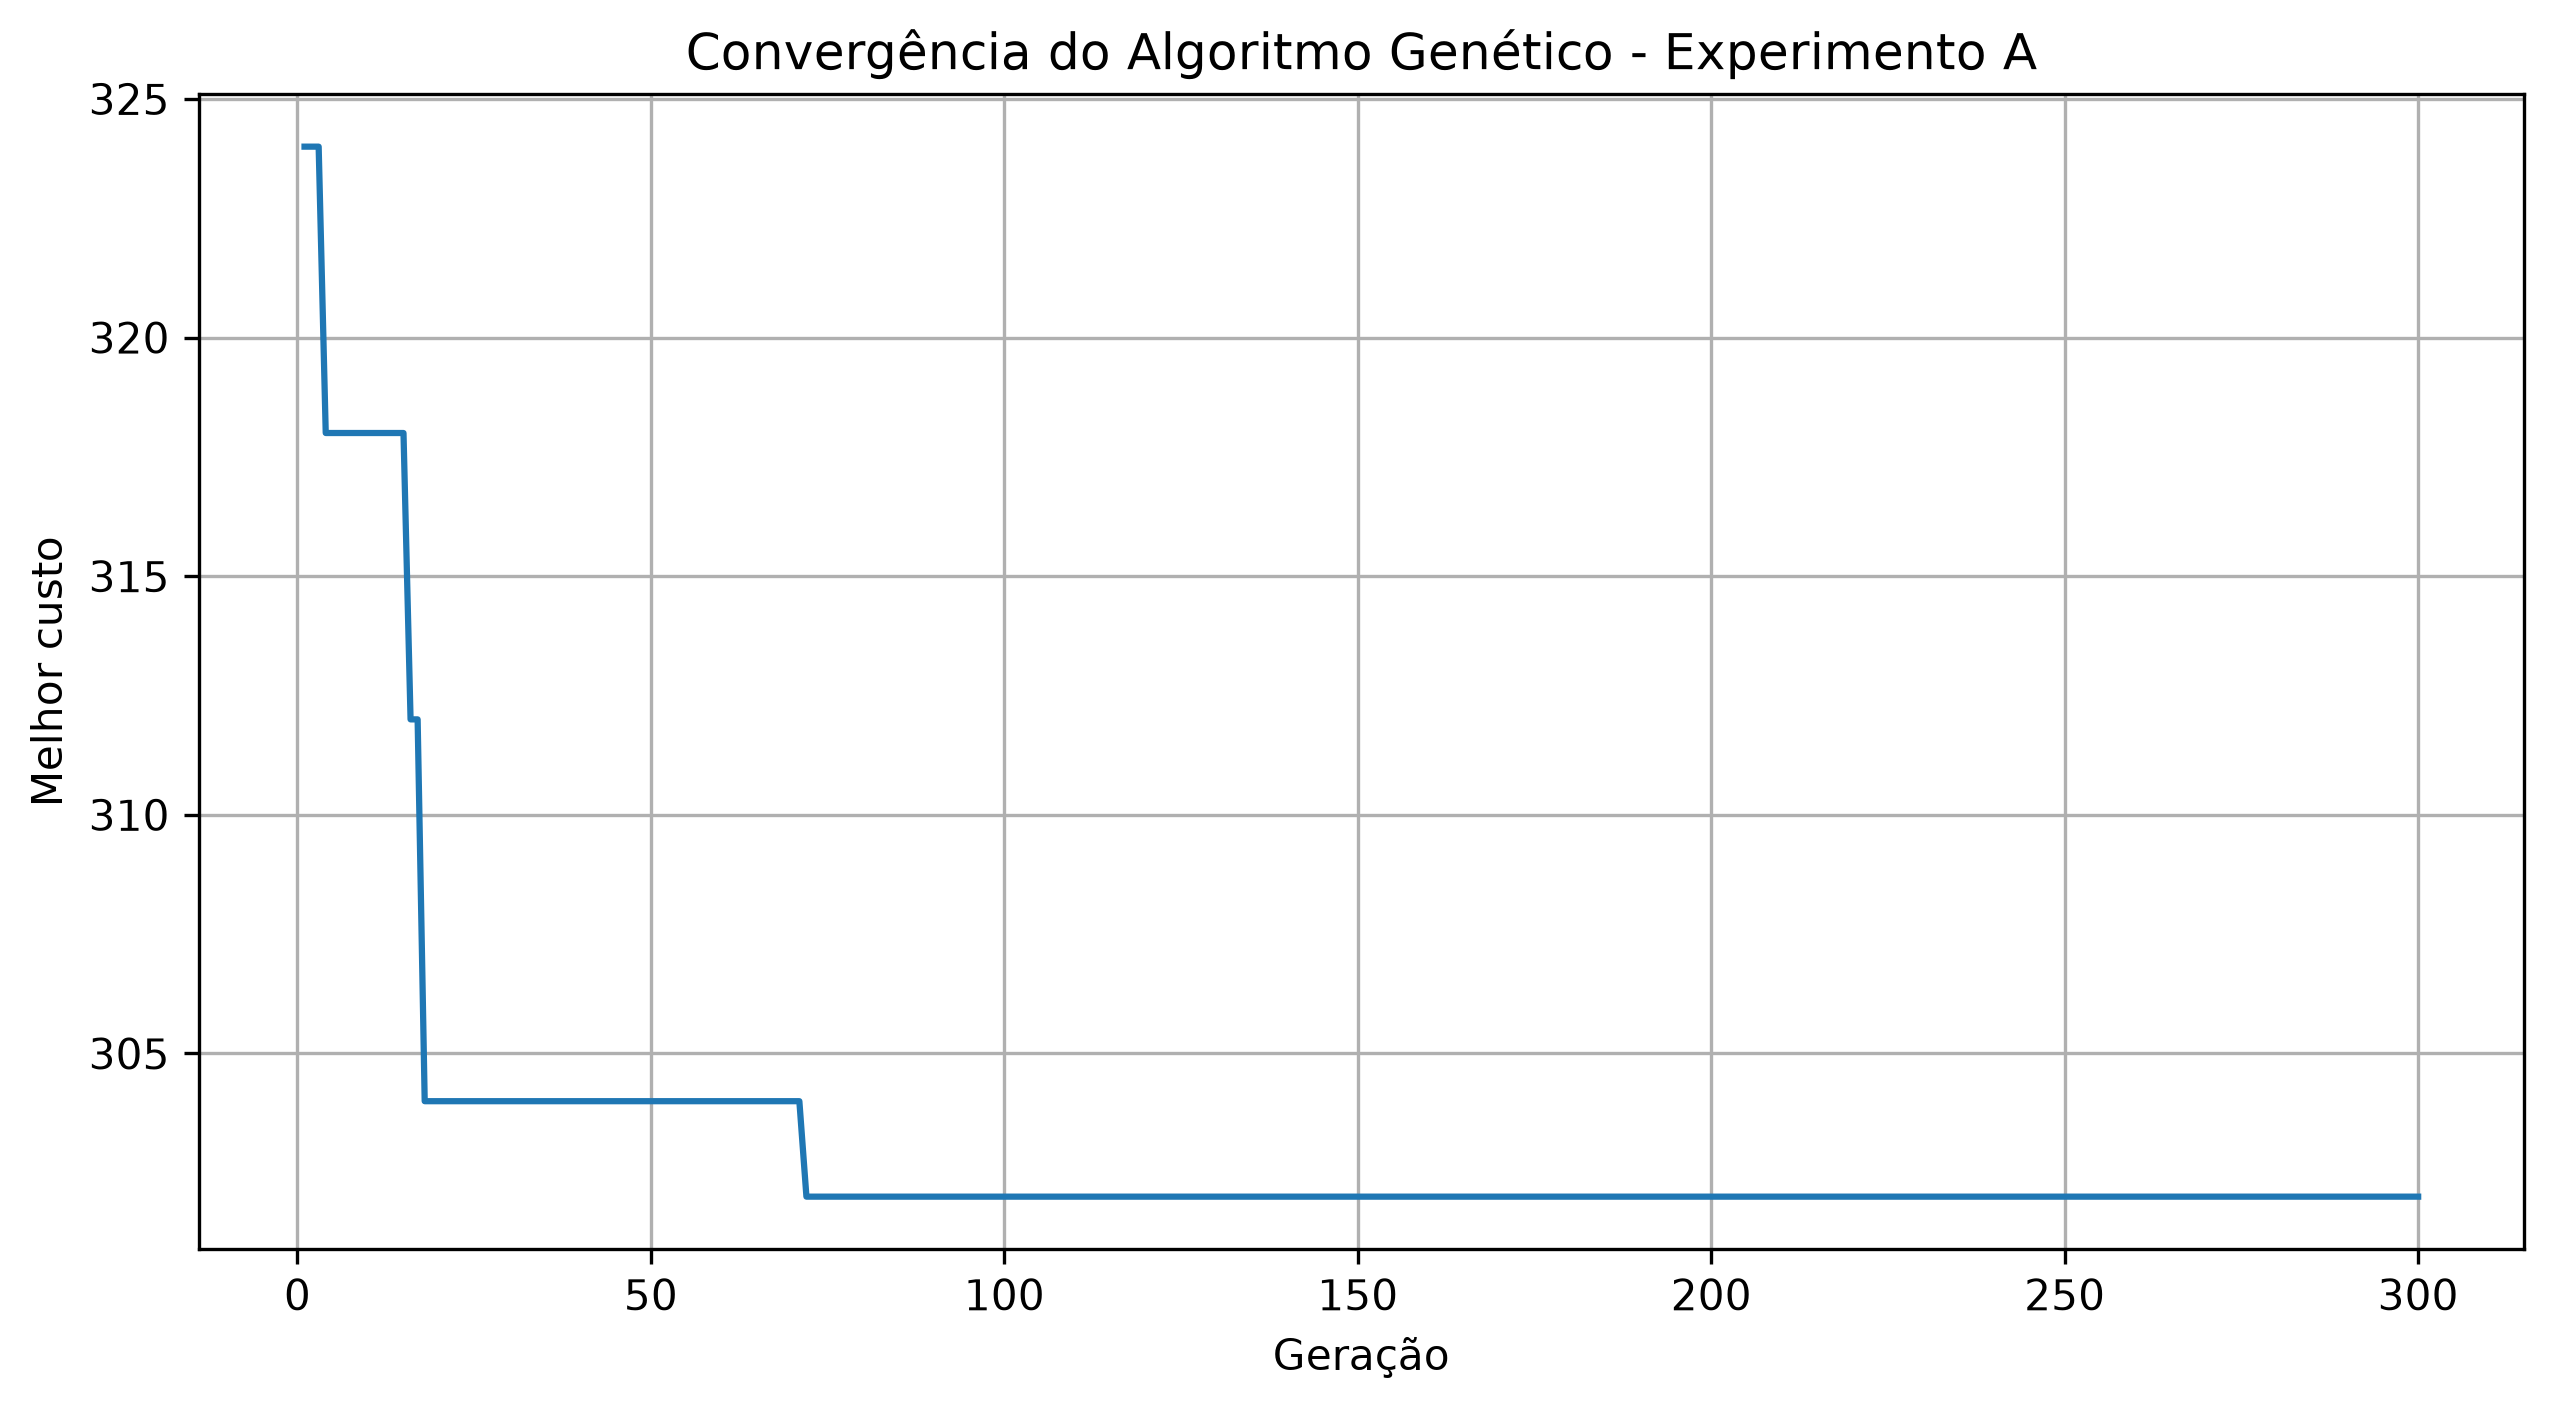
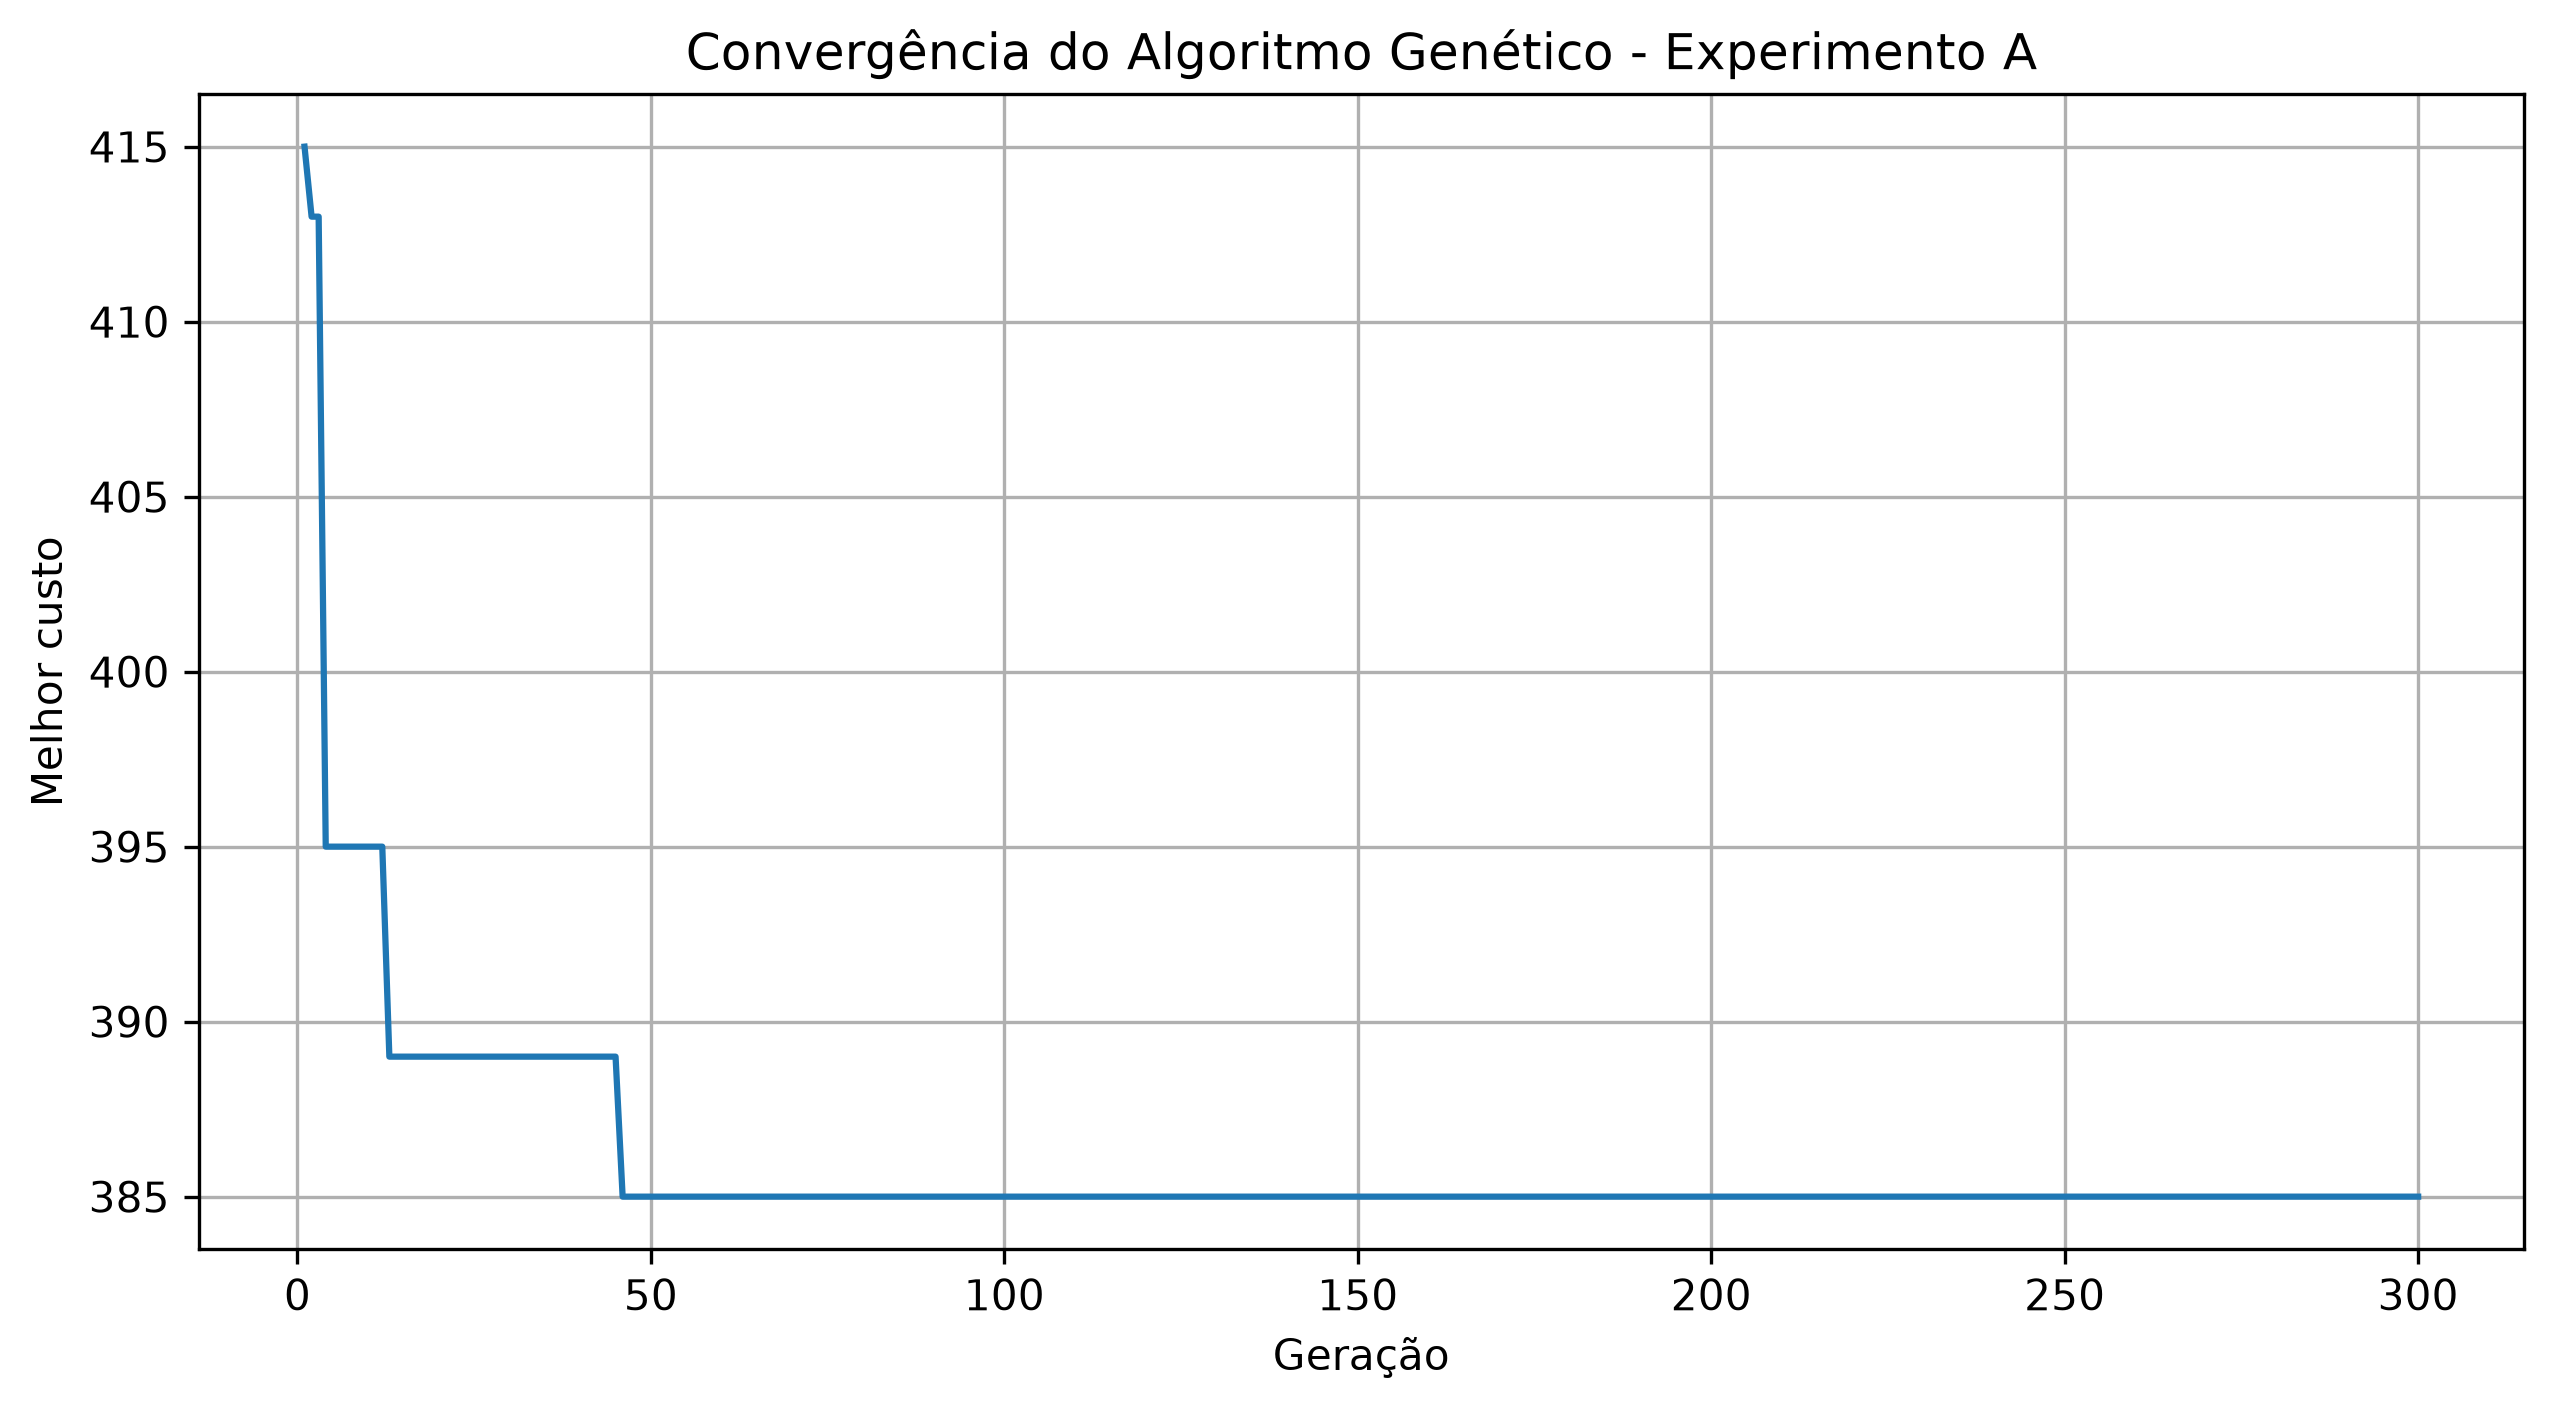
Atualiza gráficos dos experimentos

diff --git a/src/gerar_graficos.py b/src/gerar_graficos.py
@@ -6,15 +6,15 @@ from gerar_amigos import gerar_amigos
 from matriz_custos import calcular_matriz_custos
 from algoritmo_genetico import algoritmo_genetico
 
+SEED = 2024105231940012
 
-SEED = 12345
+os.makedirs("resultados", exist_ok=True)
+
+
+# EXPERIMENTO A
 N = 8
 
-
-amigos = gerar_amigos(
-    N,
-    SEED
-)
+amigos = gerar_amigos(N, SEED)
 
 nomes, matriz = calcular_matriz_custos(
     CASA_DA_BARBIE,
@@ -23,8 +23,7 @@ nomes, matriz = calcular_matriz_custos(
 
 nomes_amigos = list(amigos.keys())
 
-
-melhor_cromossomo, melhor_custo, historico = algoritmo_genetico(
+_, _, historico_A = algoritmo_genetico(
     nomes_amigos,
     nomes,
     matriz,
@@ -35,21 +34,16 @@ melhor_cromossomo, melhor_custo, historico = algoritmo_genetico(
     tamanho_elite=2
 )
 
-
-os.makedirs("resultados", exist_ok=True)
-
-
 plt.figure(figsize=(10, 5))
 
 plt.plot(
-    range(1, len(historico) + 1),
-    historico
+    range(1, len(historico_A) + 1),
+    historico_A
 )
 
 plt.xlabel("Geração")
 plt.ylabel("Melhor custo")
 plt.title("Convergência do Algoritmo Genético - Experimento A")
-
 plt.grid()
 
 plt.savefig(
@@ -58,4 +52,50 @@ plt.savefig(
     bbox_inches="tight"
 )
 
-plt.show()
+plt.close()
+
+
+# EXPERIMENTO B
+N = 15
+
+amigos = gerar_amigos(N, SEED)
+
+nomes, matriz = calcular_matriz_custos(
+    CASA_DA_BARBIE,
+    amigos
+)
+
+nomes_amigos = list(amigos.keys())
+
+_, _, historico_B = algoritmo_genetico(
+    nomes_amigos,
+    nomes,
+    matriz,
+    tamanho_populacao=100,
+    geracoes=500,
+    taxa_crossover=0.8,
+    taxa_mutacao=0.03,
+    tamanho_elite=2
+)
+
+plt.figure(figsize=(10, 5))
+
+plt.plot(
+    range(1, len(historico_B) + 1),
+    historico_B
+)
+
+plt.xlabel("Geração")
+plt.ylabel("Melhor custo")
+plt.title("Convergência do Algoritmo Genético - Experimento B")
+plt.grid()
+
+plt.savefig(
+    "resultados/experimento_B.png",
+    dpi=300,
+    bbox_inches="tight"
+)
+
+plt.close()
+
+print("Gráficos gerados com sucesso!")
